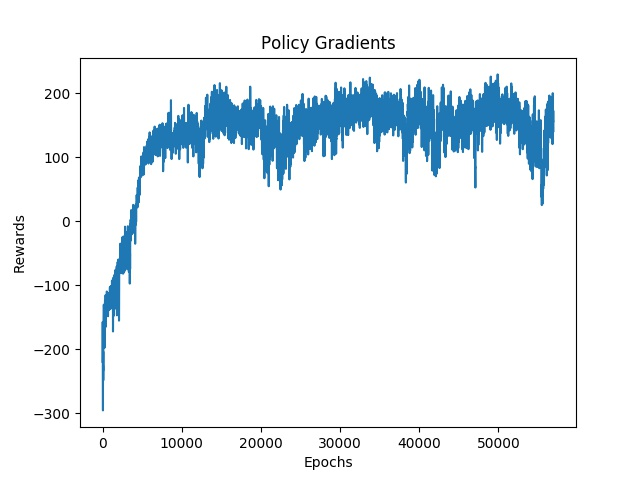
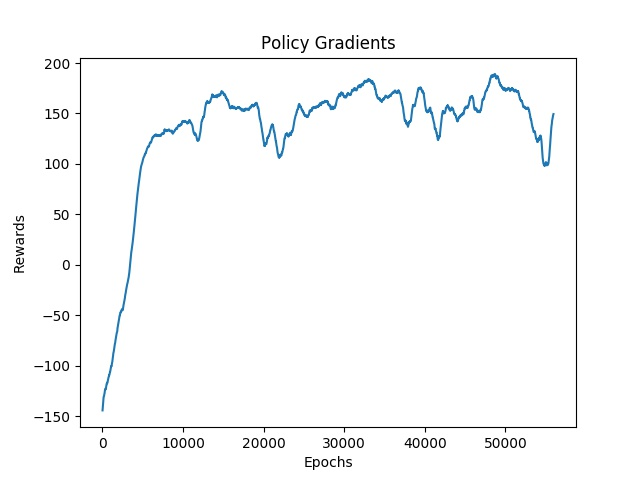
upd

diff --git a/p1_dqn.py b/p1_dqn.py
@@ -10,9 +10,13 @@ with open('dqn_gamma_0.9.log', 'r') as f:
         epochs.append(epoch)
         rewards.append(reward)
    
+a1, a2 = [], []
+for _ in range(len(epochs) - 100):
+    a1.append((_ + 1) * 10)
+    a2.append(sum(rewards[_:_+100]) / 100)
 plt.title('Deep Q-Learning')
 plt.xlabel('Episode')
 plt.ylabel('Rewards')
-plt.plot(epochs, rewards)
+plt.plot(a1, a2)
 plt.savefig('p1_dqn.jpg')
 #plt.show()

diff --git a/p1_pg.py b/p1_pg.py
@@ -10,9 +10,13 @@ with open('pg.log', 'r') as f:
         epochs.append(epoch)
         rewards.append(reward)
    
+a1, a2 = [], []
+for _ in range(len(epochs) - 100):
+    a1.append((_ + 1) * 10)
+    a2.append(sum(rewards[_:_+100]) / 100)
 plt.title('Policy Gradients')
 plt.xlabel('Epochs')
 plt.ylabel('Rewards')
-plt.plot(epochs, rewards)
+plt.plot(a1, a2)
 plt.savefig('p1_pg.jpg')
 #plt.show()
